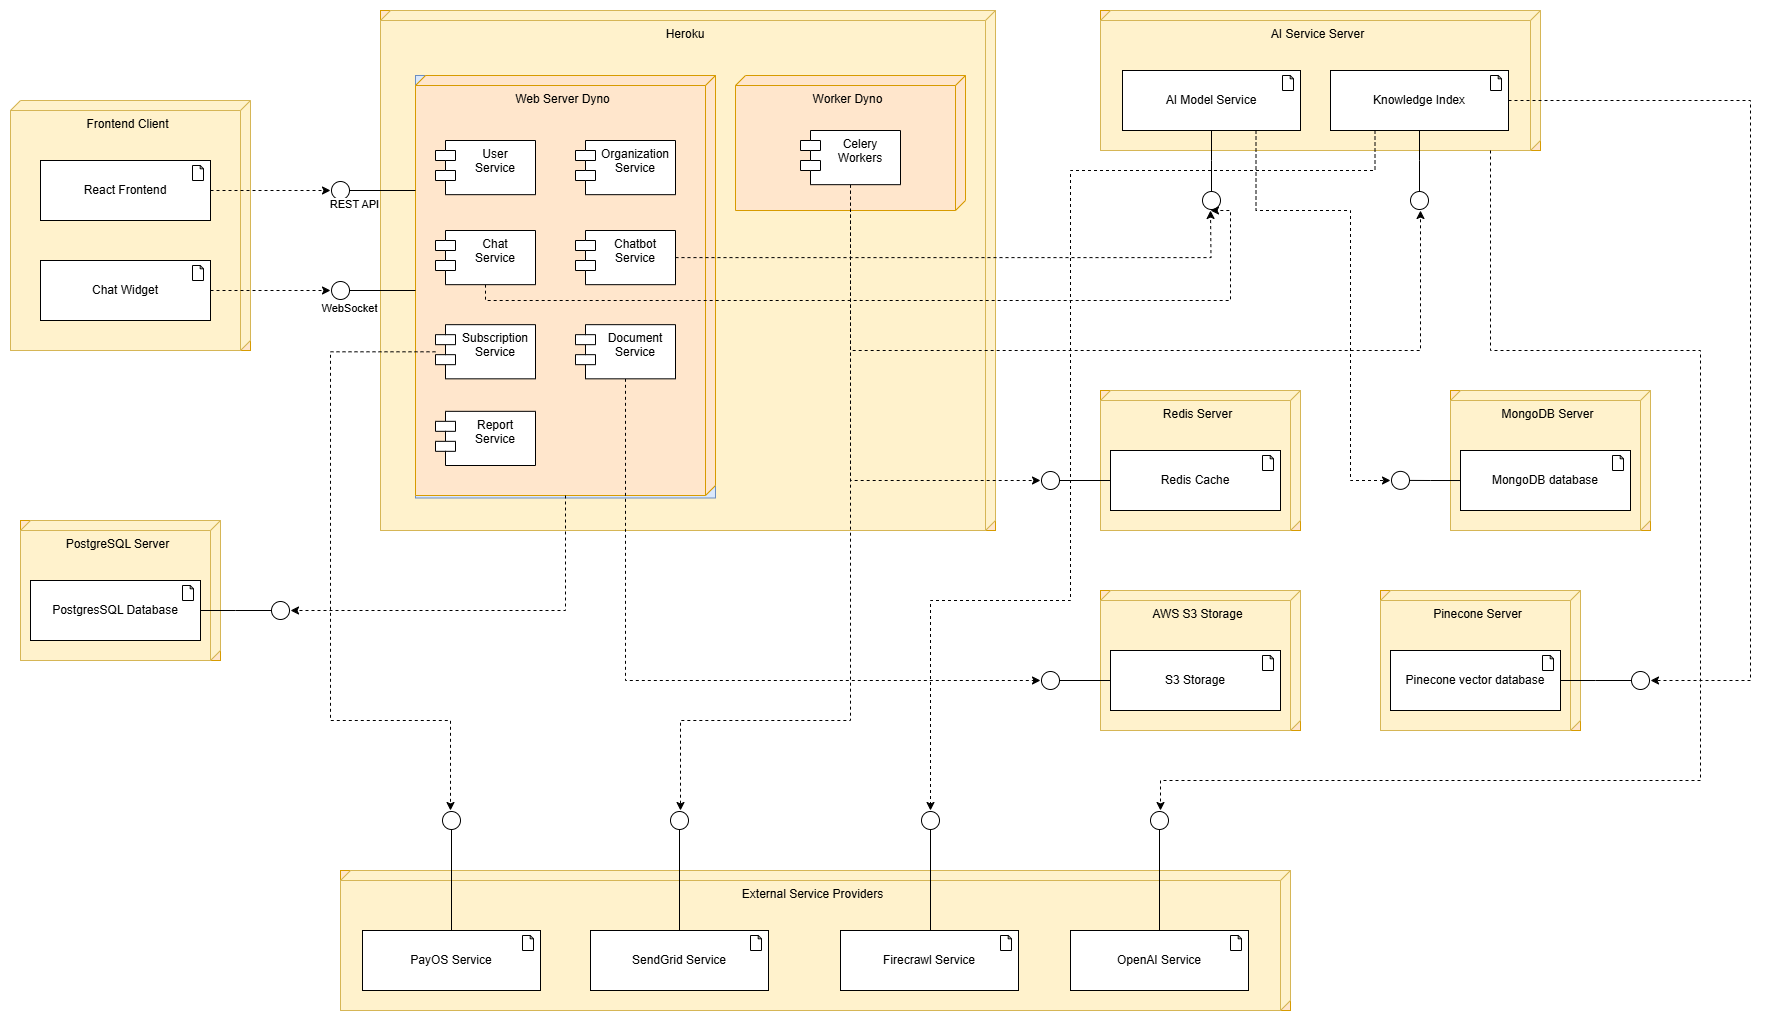
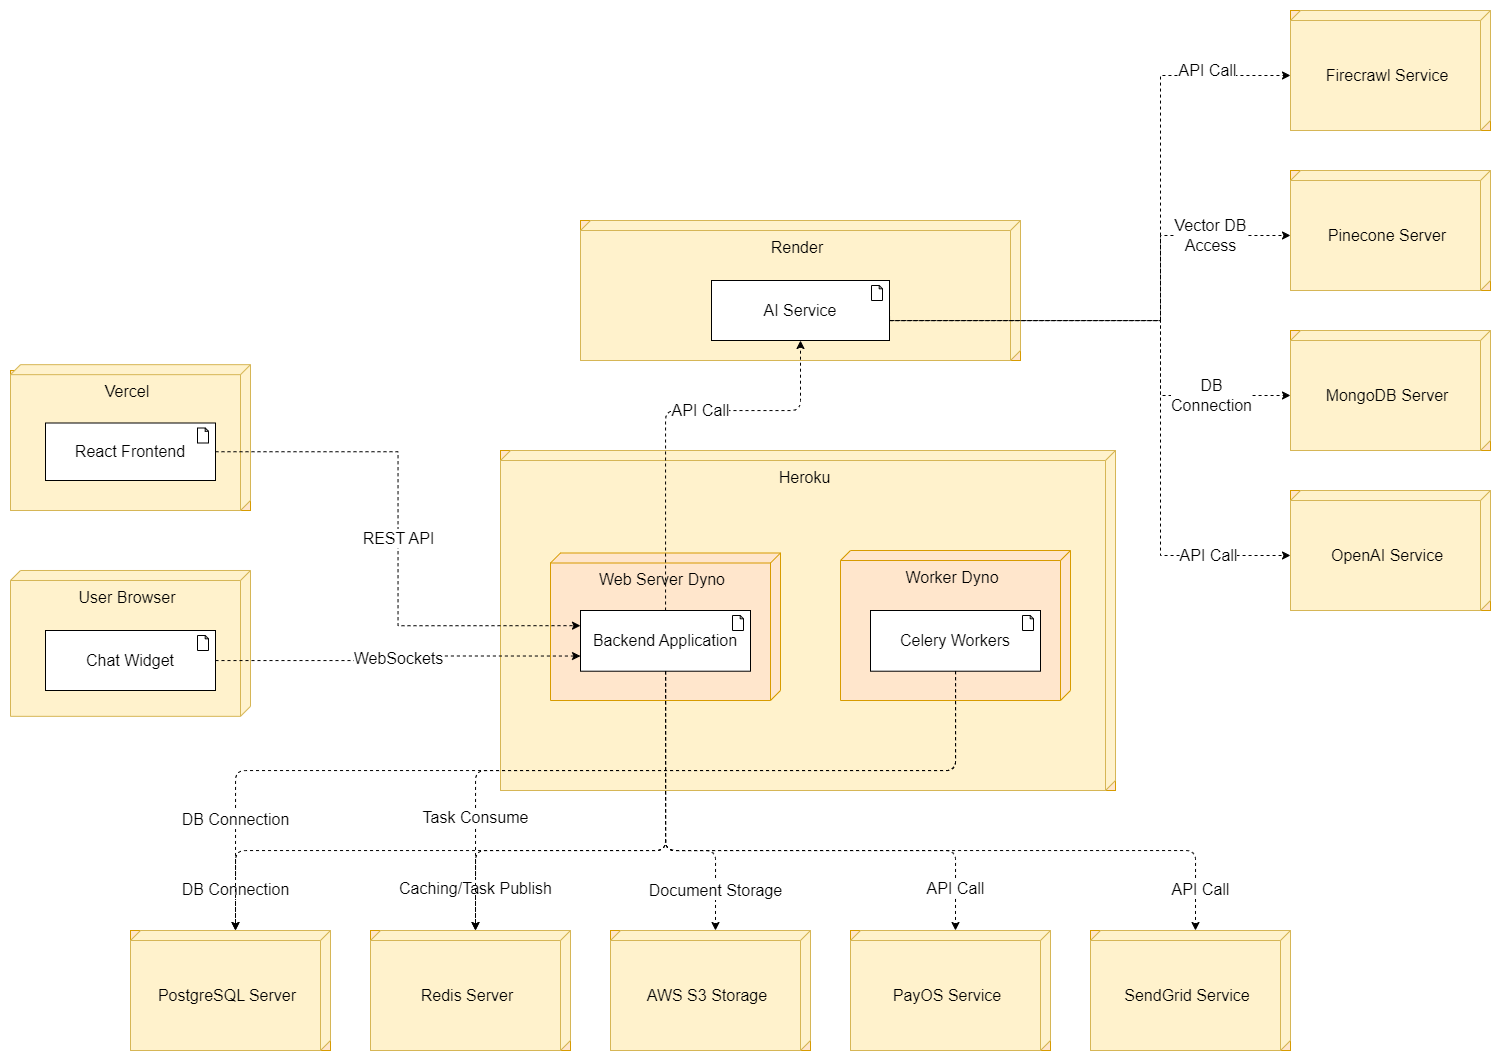
Update deployment and archtecture diagrams

diff --git a/Contents/HienThuc/TrienKhai.tex b/Contents/HienThuc/TrienKhai.tex
@@ -13,42 +13,54 @@
     }
 \end{figure}
 
-Sơ đồ triển khai trong hình 114 mô tả cách các thành phần phần mềm của hệ thống được phân bổ và thực thi trên các nút hạ tầng vật lý hoặc ảo trong môi trường vận hành.
+Sơ đồ triển khai hệ thống, như được minh họa trong hình 114, mô tả chi tiết cách thức các thành phần phần mềm của ứng dụng được phân bổ và thực thi trên các nút hạ tầng vật lý hoặc ảo trong môi trường vận hành thực tế. Sơ đồ này làm rõ các nền tảng dịch vụ được sử dụng và mối quan hệ tương tác giữa chúng.
 
+\paragraph{Nền tảng Vercel (Vercel Platform)}
+Nền tảng Vercel được lựa chọn để triển khai thành phần giao diện quản trị của hệ thống.
 \begin{itemize}
-    \item \textbf{Giao diện người dùng (Frontend Client):} Nút này đại diện cho môi trường thực thi phía người dùng cuối. Nó chứa các thành phần giao diện chính:
+    \item \textbf{Ứng dụng React Frontend:} Đây là ứng dụng đơn trang dành cho quản trị viên và nhân viên hỗ trợ. Ứng dụng này giao tiếp với Ứng dụng Backend trên nền tảng Heroku thông qua giao diện REST API để trao đổi dữ liệu và thực thi các yêu cầu nghiệp vụ.
+\end{itemize}
+
+\paragraph{Trình duyệt Người dùng (User Browser Environment)}
+Đây là môi trường thực thi phía người dùng cuối, nơi họ tương tác trực tiếp với tiện ích chatbot.
+\begin{itemize}
+    \item \textbf{Tiện ích Chat (Chat Widget):} Thành phần giao diện người dùng dạng nhúng, được tích hợp vào website của khách hàng. Tiện ích chat thiết lập kết nối WebSocket trực tiếp đến ứng dụng backend trên Heroku để đảm bảo việc gửi và nhận tin nhắn diễn ra tức thời, mang lại trải nghiệm hội thoại thời gian thực.
+\end{itemize}
+
+\paragraph{Nền tảng Heroku (Heroku Platform)}
+Heroku, một Nền tảng dưới dạng Dịch vụ (PaaS), đóng vai trò là môi trường triển khai chính cho các thành phần backend cốt lõi của hệ thống. Các thành phần này được thực thi dưới dạng các quy trình (dynos) chuyên biệt:
+\begin{itemize}
+    \item \textbf{Web Server Dyno (Chứa Ứng dụng Backend - Backend Application):} Dyno này chịu trách nhiệm xử lý các yêu cầu HTTP đến từ Ứng dụng React Frontend và quản lý các kết nối WebSocket từ tiện ích chat. Bên trong dyno này là ứng dụng backend chính (phát triển bằng Django), bao gồm các module dịch vụ xử lý logic nghiệp vụ của hệ thống. Web Server Dyno tương tác với nhiều dịch vụ và máy chủ khác, bao gồm: Máy chủ PostgreSQL để truy vấn cơ sở dữ liệu, Máy chủ Redis cho caching và hàng đợi tác vụ, Dịch vụ Lưu trữ AWS S3 để quản lý tệp, các Dịch vụ Bên ngoài như PayOS và SendGrid qua API call, và Dịch vụ AI trên nền tảng Render cũng thông qua API call. Nó cũng xuất bản các tác vụ nền cho Worker Dyno thông qua Redis.
+    \item \textbf{Worker Dyno (Chứa Celery Workers):} Dyno này thực thi các tiến trình Celery Workers, chuyên xử lý các tác vụ nền bất đồng bộ. Các tác vụ này được tiêu thụ từ hàng đợi tin nhắn trên Máy chủ Redis, giúp giảm tải cho Web Server Dyno và cải thiện độ phản hồi của ứng dụng. Worker Dyno có thể cần tương tác với Máy chủ PostgreSQL, Redis, và AWS S3 tùy theo bản chất của tác vụ được xử lý.
+\end{itemize}
+
+\paragraph{Nền tảng Render (Render Platform)}
+Nền tảng Render được sử dụng để triển khai Dịch vụ Trí tuệ Nhân tạo một cách độc lập.
+\begin{itemize}
+    \item \textbf{Dịch vụ AI (AI Service):} Thành phần này đóng gói các mô hình ngôn ngữ lớn, logic xử lý ngôn ngữ tự nhiên, và các thuật toán trí tuệ nhân tạo khác. Dịch vụ AI tiếp nhận các yêu cầu xử lý từ Ứng dụng Backend trên Heroku. Để thực hiện nhiệm vụ, Dịch vụ AI tương tác với:
         \begin{itemize}
-            \item \textbf{React Frontend:} Ứng dụng quản trị dạng SPA (Single Page Application), giao tiếp với Backend thông qua giao diện REST API.
-            \item \textbf{Chat Widget:} Cửa sổ chatbot dạng nhúng, giao tiếp với Backend chủ yếu qua kết nối WebSocket để đảm bảo tương tác thời gian thực.
+            \item \textbf{Máy chủ Pinecone (Pinecone Server):} Truy cập cơ sở dữ liệu vector để thực hiện tìm kiếm tương đồng ngữ nghĩa và các tác vụ liên quan đến Retrieval-Augmented Generation (RAG).
+            \item \textbf{Máy chủ MongoDB (MongoDB Server):} Kết nối cơ sở dữ liệu để lưu trữ và truy xuất các dữ liệu cần thiết cho hoạt động của AI, ví dụ như thông tin phiên hội thoại AI, logs xử lý AI, hoặc các dữ liệu bán cấu trúc khác.
+            \item \textbf{Dịch vụ OpenAI (OpenAI Service):} Gọi API đến dịch vụ của OpenAI để tận dụng các mô hình ngôn ngữ hoặc các năng lực AI tiên tiến khác.
+            \item \textbf{Dịch vụ Firecrawl (Firecrawl Service):} Gọi API đến dịch vụ Firecrawl để thu thập dữ liệu từ các trang web, có thể phục vụ cho việc xây dựng hoặc cập nhật cơ sở tri thức.
         \end{itemize}
+\end{itemize}
 
-    \item \textbf{Nền tảng Heroku (Heroku Platform):} Nền tảng dưới dạng dịch vụ (Platform as a Service) được sử dụng để triển khai ứng dụng Backend chính. Bên trong Heroku, ứng dụng được thực thi trên hai loại quy trình (dynos):
-        \begin{itemize}
-            \item \textbf{Web Server Dyno:} Chịu trách nhiệm xử lý các yêu cầu HTTP đến từ React Frontend và quản lý các kết nối WebSocket từ Chat Widget. Dyno này thực thi ứng dụng Django, bao gồm các module dịch vụ cốt lõi: User Service, Organization Service, Chat Service, Chatbot Service, Subscription Service, Document Service, Report Service.
-            \item \textbf{Worker Dyno:} Chứa các tiến trình xử lý nền, chịu trách nhiệm thực thi các tác vụ bất đồng bộ được gửi từ Web Server Dyno thông qua hàng đợi tin nhắn Redis.
-        \end{itemize}
+\paragraph{Các máy chủ dữ liệu và lưu trữ phụ trợ}
+Hệ thống dựa vào một số máy chủ và dịch vụ chuyên dụng để lưu trữ và quản lý dữ liệu:
+\begin{itemize}
+    \item \textbf{Máy chủ PostgreSQL (PostgreSQL Server):} Nút máy chủ cơ sở dữ liệu quan hệ, nơi lưu trữ dữ liệu có cấu trúc chính của hệ thống. Được truy cập bởi Web Server Dyno và Worker Dyno trên Heroku thông qua kết nối cơ sở dữ liệu trực tiếp.
+    \item \textbf{Máy chủ Redis (Redis Server):} Triển khai dịch vụ Redis, đóng vai trò là bộ nhớ đệm, hàng đợi tin nhắn cho Celery giữa Web Server Dyno và Worker Dyno, và có thể hỗ trợ lớp WebSocket.
+    \item \textbf{Dịch vụ Lưu trữ AWS S3 (AWS S3 Storage):} Dịch vụ lưu trữ đối tượng trên nền tảng đám mây của Amazon, được Ứng dụng Backend trên Heroku sử dụng để lưu trữ các tài liệu, hình ảnh, và các tệp dữ liệu khác.
+    \item \textbf{Máy chủ MongoDB (MongoDB Server):} Như đã đề cập, máy chủ này triển khai cơ sở dữ liệu NoSQL MongoDB, phục vụ chủ yếu cho nhu cầu lưu trữ dữ liệu của Dịch vụ AI trên Render.
+    \item \textbf{Máy chủ Pinecone (Pinecone Server):} Như đã đề cập, đây là một cơ sở dữ liệu vector chuyên dụng, được Dịch vụ AI trên Render sử dụng để lưu trữ và truy vấn các vector nhúng hiệu quả.
+\end{itemize}
 
-    \item \textbf{Máy chủ Dịch vụ AI (AI Service Server):} Máy chủ được triển khai độc lập dành riêng cho việc thực thi các các thành phần và tác vụ trí tuệ nhân tạo.
-        \begin{itemize}
-            \item \textbf{Dịch vụ Mô hình AI (AI Model Service):} Chứa các mô hình AI đã huấn luyện và logic xử lý ngôn ngữ tự nhiên (NLP). Dịch vụ này tương tác với Backend (Web/Worker Dynos), Knowledge Index, MongoDB Server, và dịch vụ OpenAI Service bên ngoài.
-            \item \textbf{Chỉ mục Tri thức (Knowledge Index):} Thành phần chịu trách nhiệm quản lý và truy cập chỉ mục tri thức vector hóa, có khả năng tương tác với Pinecone Server để lưu trữ và truy vấn embeddings.
-        \end{itemize}
-
-    \item \textbf{Máy chủ PostgreSQL (PostgreSQL Server):} Nút máy chủ cơ sở dữ liệu, triển khai Hệ quản trị CSDL quan hệ PostgreSQL. Đây là nơi lưu trữ dữ liệu có cấu trúc chính của hệ thống. Web Server Dyno kết nối trực tiếp đến máy chủ này để thực hiện các thao tác dữ liệu.
-
-    \item \textbf{Máy chủ Redis (Redis Server):} Nút máy chủ triển khai dịch vụ Redis. Nó đóng vai trò đa nhiệm: làm bộ nhớ đệm, backend cho lớp Channels, và làm message broker cho Celery, phục vụ cho cả Web Server Dyno và Worker Dyno trên Heroku.
-
-    \item \textbf{Máy chủ MongoDB (MongoDB Server):} Nút máy chủ triển khai cơ sở dữ liệu NoSQL dạng tài liệu MongoDB, thường được sử dụng để lưu trữ dữ liệu phi cấu trúc hoặc bán cấu trúc liên quan đến các tính năng AI hoặc các bản ghi linh hoạt khác.
-
-    \item \textbf{Lưu trữ AWS S3 (AWS S3 Storage):} Dịch vụ lưu trữ đối tượng (object storage) trên nền tảng đám mây của Amazon Web Services, được sử dụng để lưu trữ các tệp lớn hoặc dữ liệu nhị phân. Dịch vụ này được truy cập bởi Web Server Dyno nhằm lưu trữ các tài liệu, hình ảnh do người dùng tải lên.
-
-    \item \textbf{Máy chủ Pinecone (Pinecone Server):} Nút máy chủ triển khai cơ sở dữ liệu vector Pinecone, được sử dụng bởi AI Service Server để lưu trữ và thực hiện truy vấn hiệu quả trên các vector embedding, phục vụ cho các tác vụ tìm kiếm tương đồng ngữ nghĩa.
-
-    \item \textbf{Các dịch vụ bên ngoài (External Service Providers):} Đại diện cho các dịch vụ của bên thứ ba được tích hợp vào hệ thống thông qua API:
-        \begin{itemize}
-            \item \textbf{Dịch vụ PayOS (PayOS Service):} Cổng thanh toán điện tử, tương tác với Subscription Service trên Web Server Dyno để xử lý giao dịch.
-            \item \textbf{Dịch vụ SendGrid (SendGrid Service):} Dịch vụ gửi email giao dịch và thông báo, được gọi bởi các thành phần trên Web Server Dyno.
-            \item \textbf{Dịch vụ Firecrawl (Firecrawl Service):} Dịch vụ thu thập dữ liệu web (web crawling), tương tác với AI Service Server (có thể để cung cấp dữ liệu cho Knowledge Index).
-            \item \textbf{Dịch vụ OpenAI (OpenAI Service):} Dịch vụ cung cấp các mô hình ngôn ngữ lớn (LLMs) hoặc các API AI khác, được sử dụng bởi AI Model Service trên AI Service Server.
-        \end{itemize}
+\paragraph{Các dịch vụ bên ngoài tích hợp}
+Hệ thống tích hợp với các dịch vụ của bên thứ ba thông qua giao diện lập trình ứng dụng (API) để mở rộng chức năng:
+\begin{itemize}
+    \item \textbf{Dịch vụ PayOS (PayOS Service):} Cổng thanh toán điện tử, được Ứng dụng Backend trên Heroku gọi để xử lý các giao dịch thanh toán và quản lý gói dịch vụ.
+    \item \textbf{Dịch vụ SendGrid (SendGrid Service):} Dịch vụ gửi email, được Ứng dụng Backend trên Heroku sử dụng để gửi các email giao dịch và thông báo cho người dùng.
+    \item \textbf{Dịch vụ Firecrawl (Firecrawl Service):} Dịch vụ thu thập dữ liệu web, được Dịch vụ AI trên Render tích hợp để bổ sung dữ liệu cho cơ sở tri thức.
+    \item \textbf{Dịch vụ OpenAI (OpenAI Service):} Cung cấp các mô hình ngôn ngữ và API trí tuệ nhân tạo, được Dịch vụ AI trên Render sử dụng để tăng cường khả năng xử lý và sinh phản hồi thông minh.
 \end{itemize}
